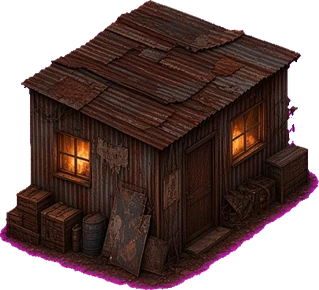
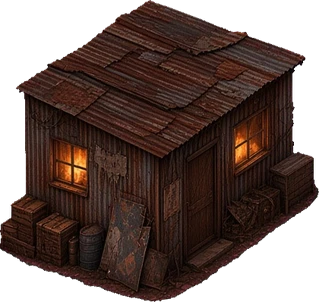
v14 Sous-Ville (WIP) : liseré magenta retiré, correctif refus

diff --git a/src/core/game.js b/src/core/game.js
@@ -23,7 +23,7 @@ export function createGame(world, sprites) {
   const doorById = id => DOORS.find(d => d.id === id);
   const doorOfBuilding = bid => DOORS.filter(d => d.buildingId === bid && d.location === state.location).sort((a, b) => Math.hypot(a.threshold.x - state.player.x, a.threshold.z - state.player.z) - Math.hypot(b.threshold.x - state.player.x, b.threshold.z - state.player.z))[0];
   const npcById = id => NPCS.find(n => n.id === id);
-  const refuse = (reason, text) => { if (typeof text === 'function') text = text(state); emit({ type: 'refus', reason, text }); // v14 : texte selon l'état return { ok: false, reason }; };
+  const refuse = (reason, text) => { if (typeof text === 'function') text = text(state); /* v14 : texte selon l'état */ emit({ type: 'refus', reason, text }); return { ok: false, reason }; };
   const busy = () => state.dialogue ? refuse('dialogue_ouvert', 'Termine la conversation d\'abord.') : null;
 
   function moveTo(x, z) {

diff --git a/tools_steel.py b/tools_steel.py
@@ -66,6 +66,10 @@ def key_bg(path, q=None):  # v13 : fond uni (magenta) retiré par distance à la
   d = np.sqrt(((a - bg) ** 2).sum(2)); al = np.clip((d - 45) / 45, 0, 1)
   al = ndimage.binary_erosion(ndimage.binary_opening(al > 0.5, iterations=2), iterations=2) * al  # v13 : on rogne 2 px de bord (liseré violet du fond)
   k = np.clip(al, 0.05, 1)[..., None]; a = np.clip((a - (1 - k) * bg) / k, 0, 255)  # retire la part de fond des bords
+  if 'gen_sv_' in path:  # v14 : Sous-Ville (tons chauds, aucun violet voulu) : liseré magenta du fond retiré sur 8 px de bord
+    edge = (al > 0) & ~ndimage.binary_erosion(al > 0, iterations=8); mag = (a[..., 0] > a[..., 1] + 40) & (a[..., 2] > a[..., 1] + 25)
+    al = np.where(edge & mag, 0, al); al = ndimage.binary_opening(al > 0.5, iterations=1) * al
+    mag = (a[..., 0] > a[..., 1] + 20) & (a[..., 2] > a[..., 1] + 12); gg = a[..., 1][mag]; a[mag] = np.stack([gg * 1.25, gg, gg * 0.85], 1)  # ombres teintées de rose -> brun
   import tools_interiors as TI
   return TI.clean(np.dstack([a, al * 255]).astype('uint8'), 4000)
 def load_cell(cell):
